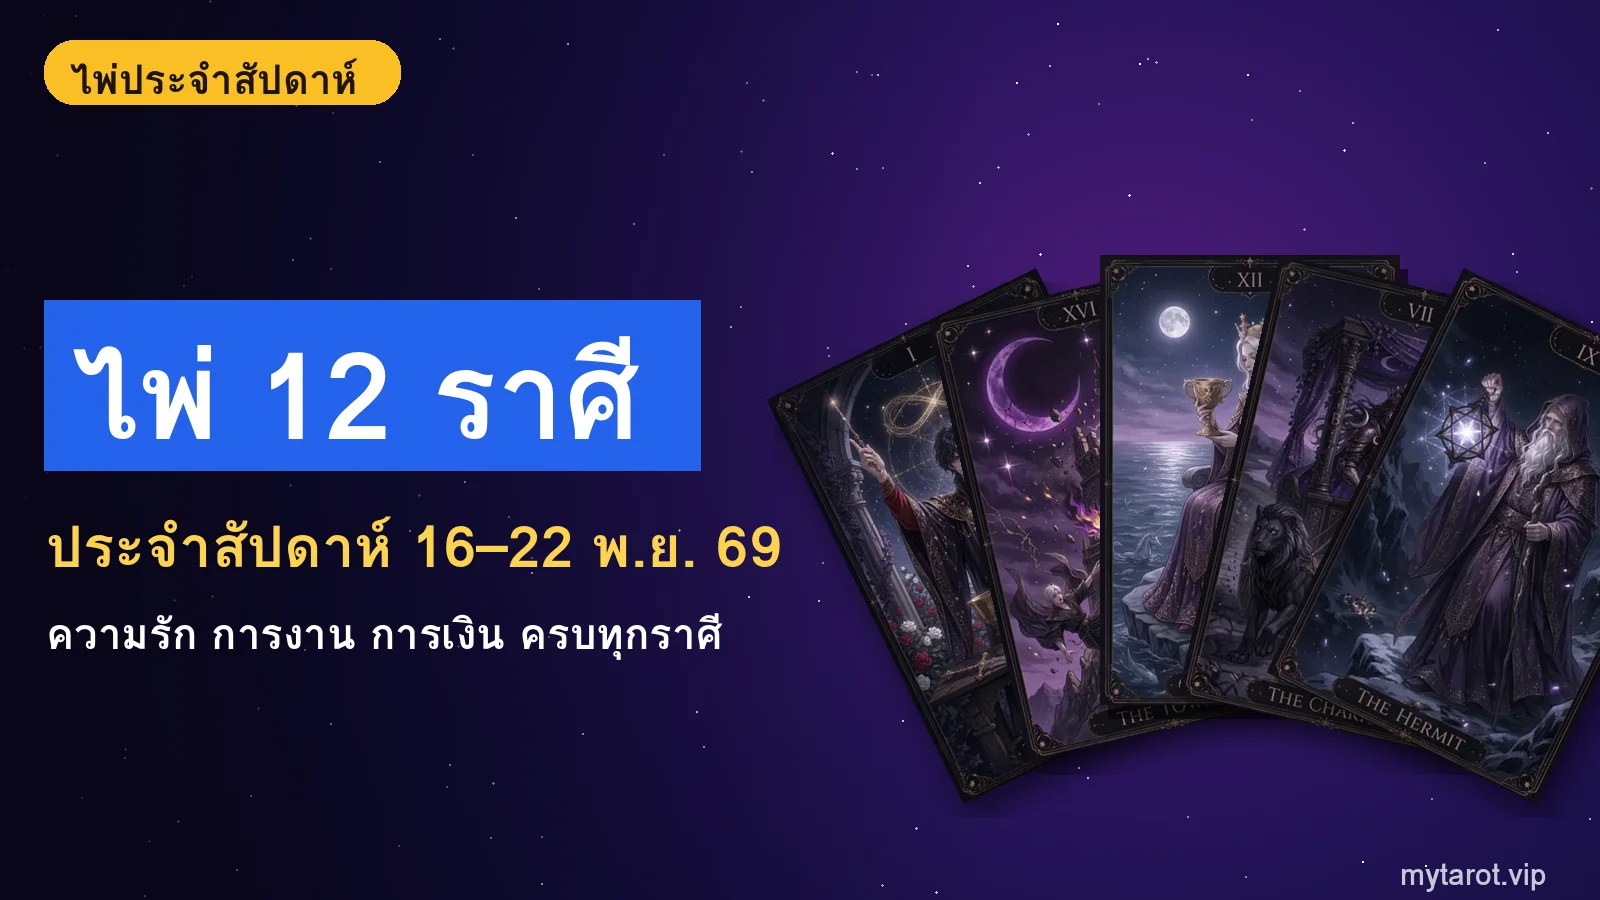
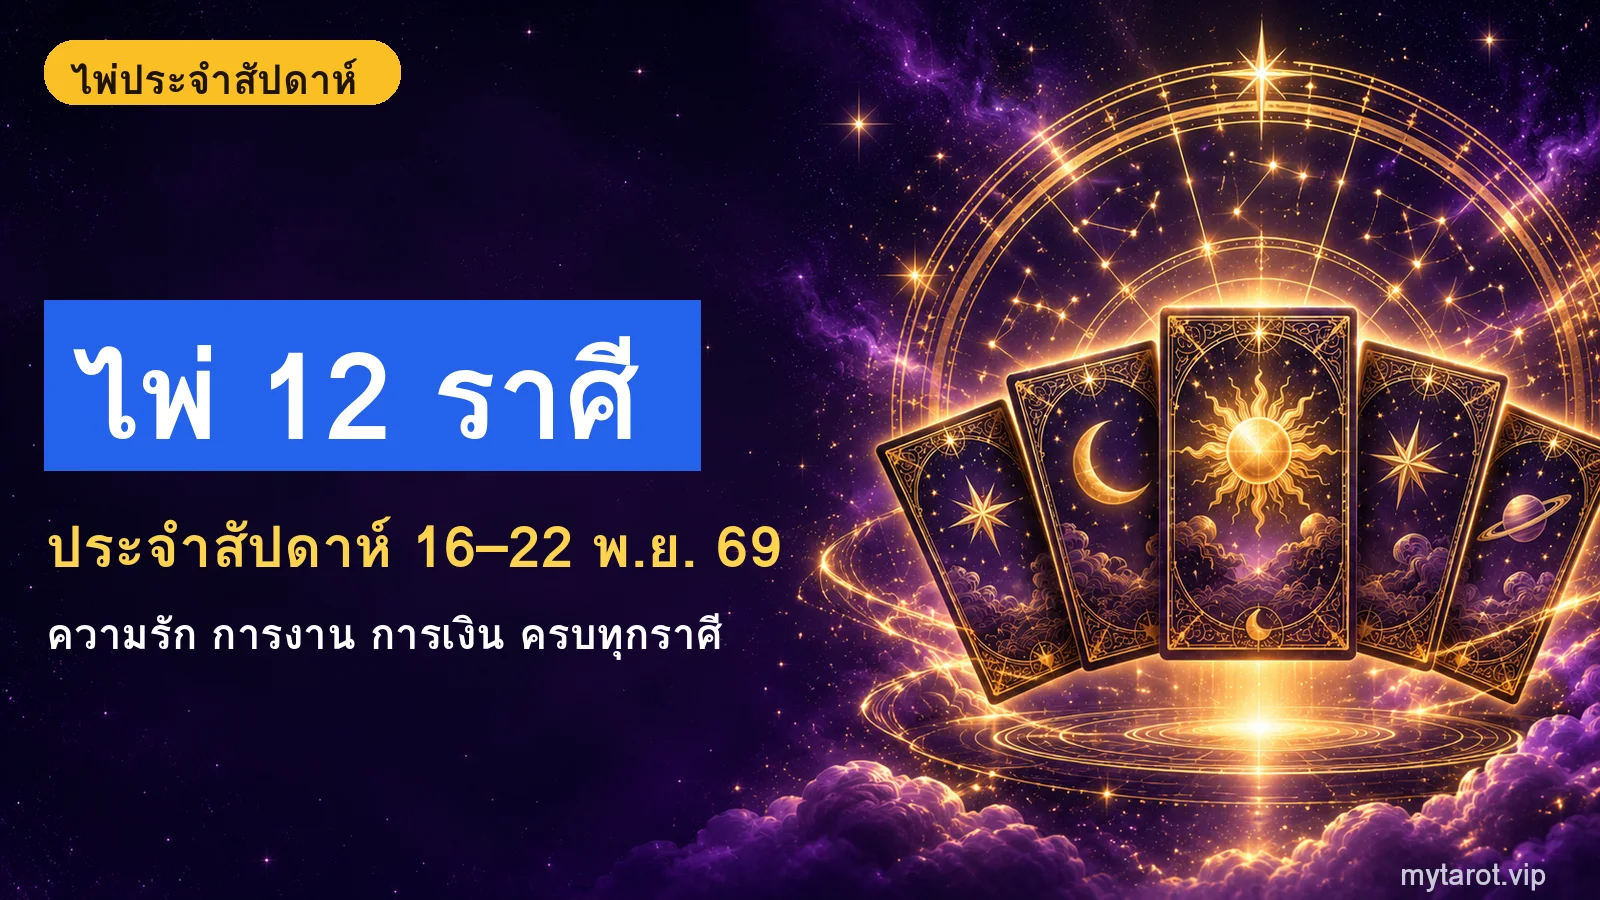
update weekly tarot

diff --git a/index.html b/index.html
@@ -35,6 +35,9 @@
     /* ─── NEW BANNER ─── */
     .new-banner { position:relative; display:block; margin:14px 16px 0; border-radius:20px; overflow:hidden; aspect-ratio:2.4/1; max-height:200px; text-decoration:none; border:1px solid rgba(245,158,11,0.45); box-shadow:0 8px 28px rgba(236,72,153,0.25), 0 0 0 1px rgba(255,255,255,0.04) inset; background:#1a0a2a; -webkit-tap-highlight-color:transparent; transition:transform .2s; }
     .new-banner:active { transform:scale(0.985); }
+    .new-banner.nb-img{aspect-ratio:16/9;max-height:none;margin-top:12px;}
+    .new-banner.nb-img::before{display:none;}
+    .new-banner.nb-img img{object-position:center;}
     .new-banner img { position:absolute; inset:0; width:100%; height:100%; object-fit:cover; object-position:right center; }
     .new-banner::before { content:''; position:absolute; inset:0; z-index:1; background:linear-gradient(90deg, rgba(13,8,32,0.92) 0%, rgba(13,8,32,0.7) 38%, rgba(13,8,32,0) 66%); }
     .new-banner::after { content:''; position:absolute; top:0; bottom:0; width:40%; left:-60%; z-index:2; background:linear-gradient(100deg, transparent, rgba(255,255,255,0.18), transparent); transform:skewX(-18deg); animation:nbShine 5s ease-in-out infinite; }
@@ -126,6 +129,10 @@
     <span class="nb-sub">ไพ่ความรัก 36 ใบ</span>
     <span class="nb-cta">ลองเลย &rarr;</span>
   </div>
+</a>
+
+<a class="new-banner nb-img" href="/news/weekly-tarot" aria-label="ไพ่ประจำสัปดาห์ ดวง 12 ราศี">
+  <img src="/images/news/card-weekly-tarot.webp" alt="ไพ่ประจำสัปดาห์ ดวง 12 ราศี" width="1000" height="563" loading="lazy" decoding="async">
 </a>
 
 <section class="hero">
